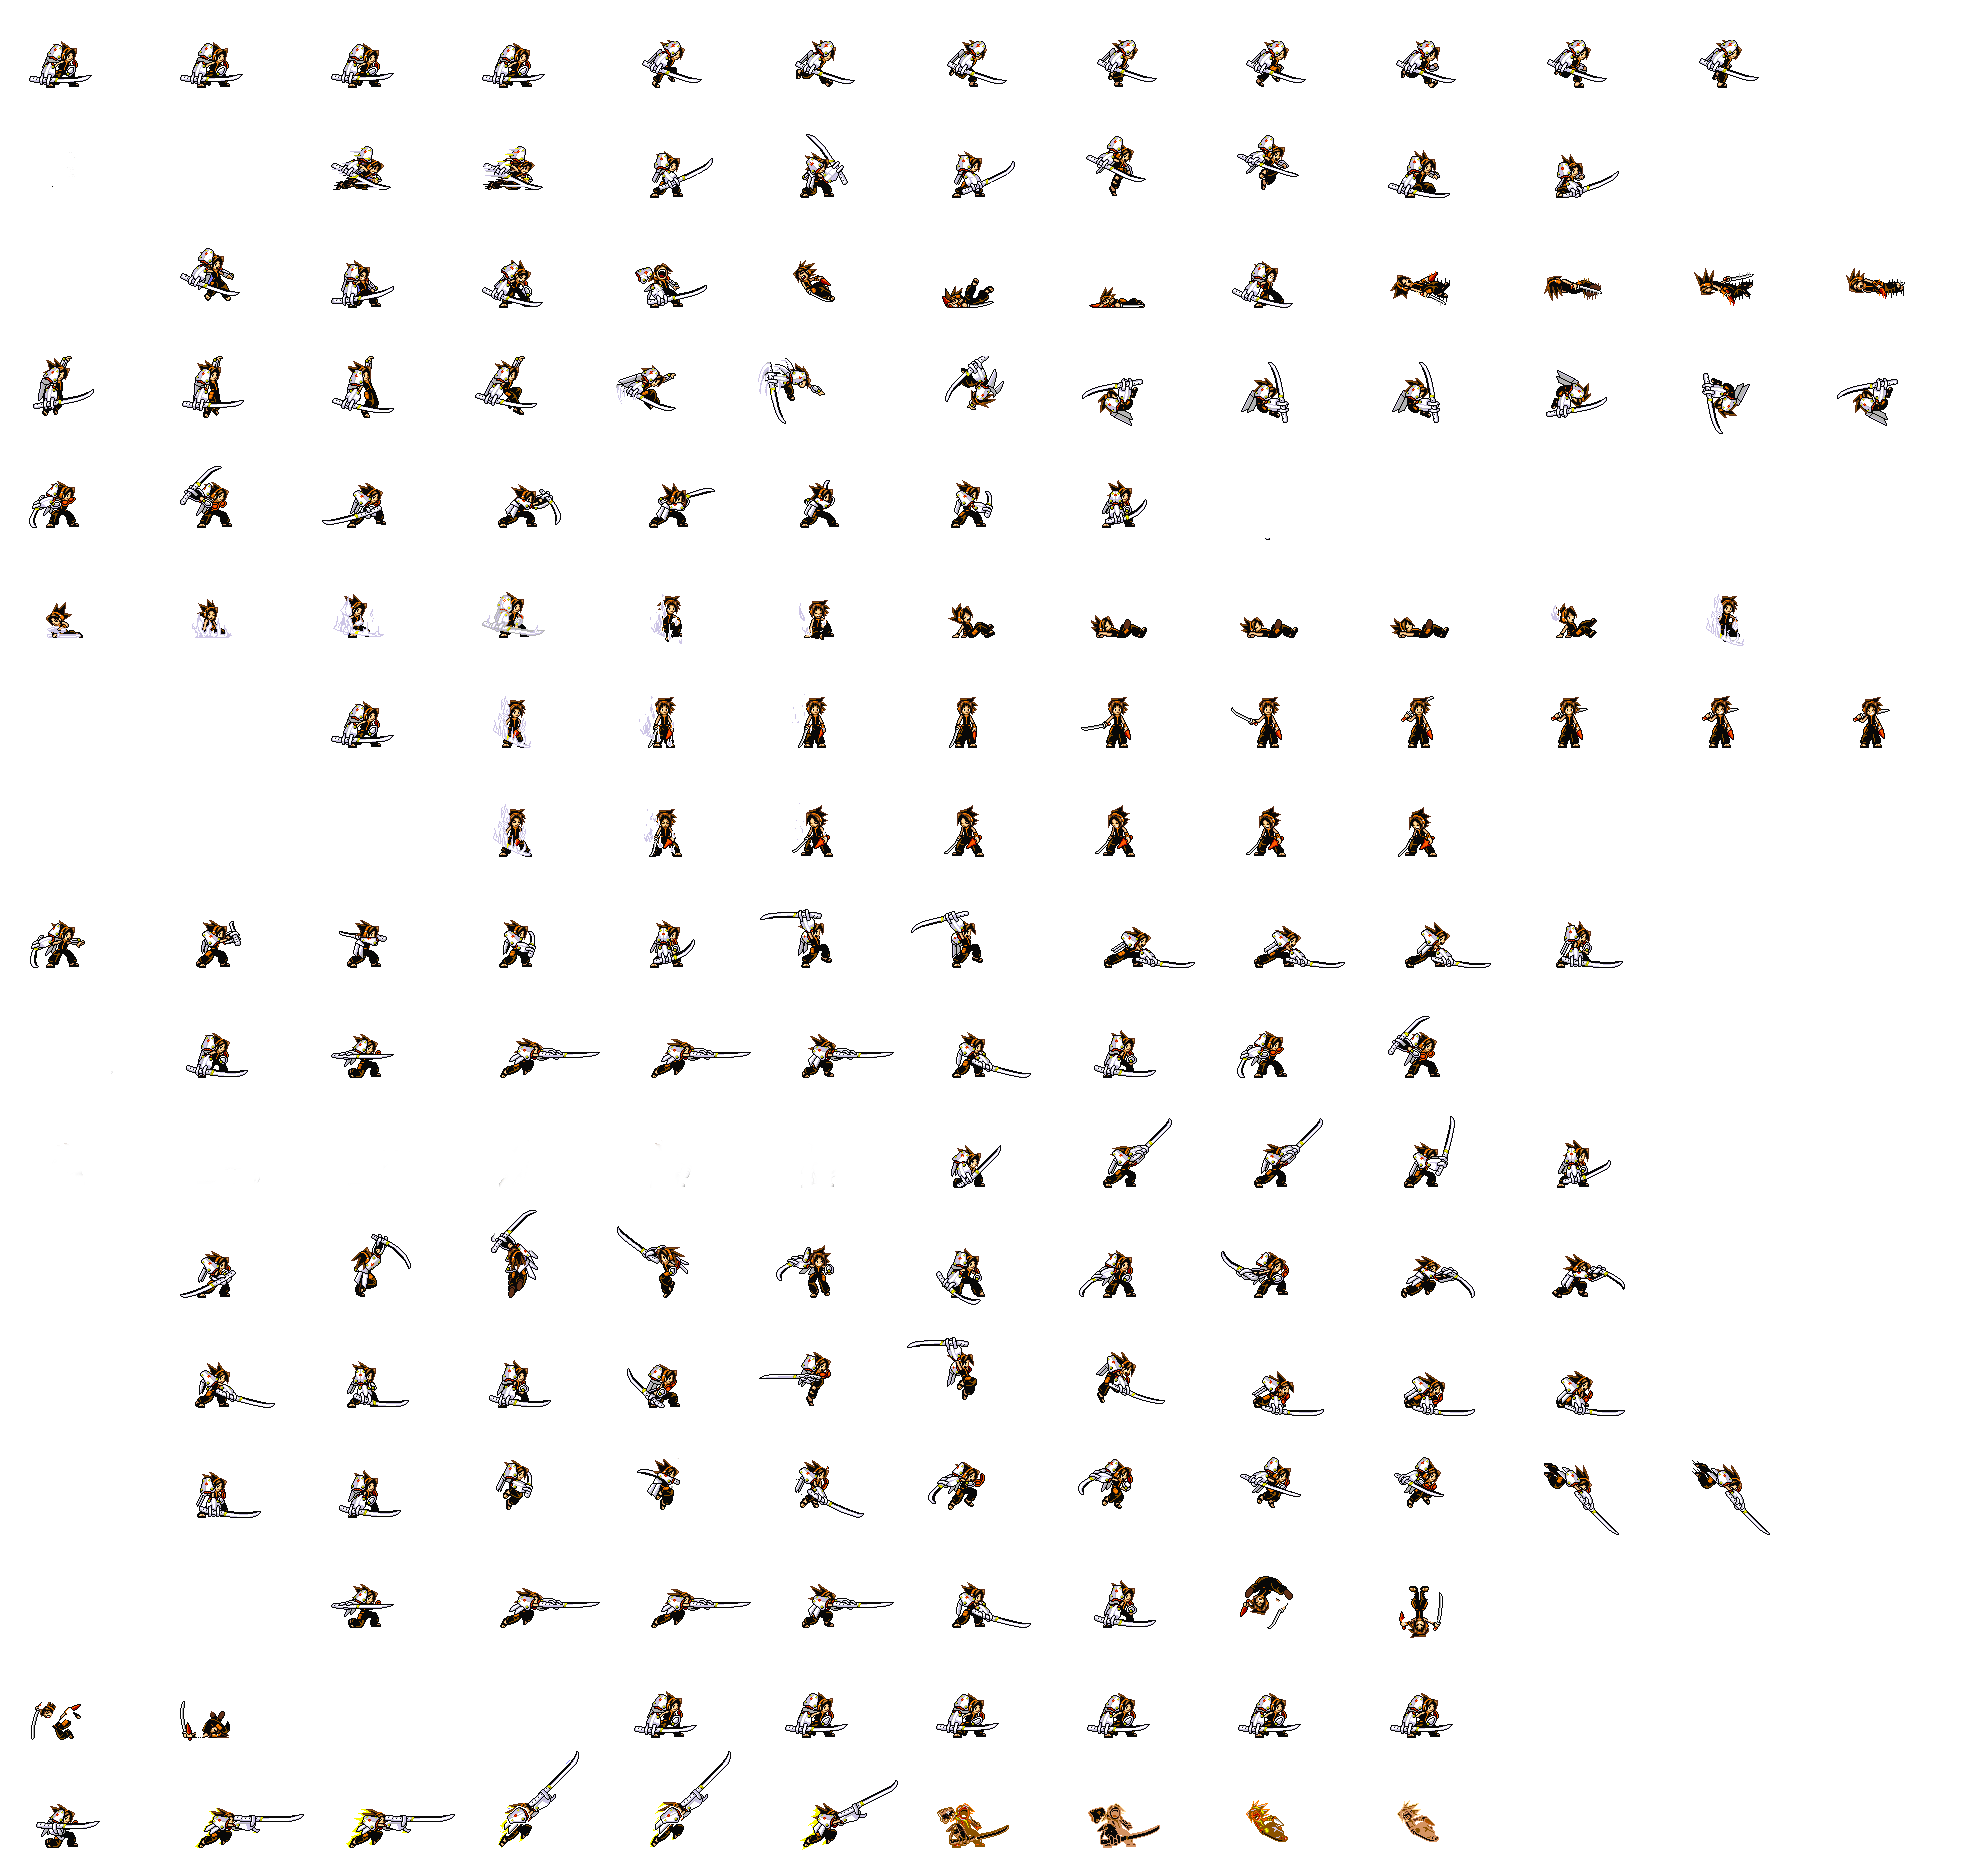
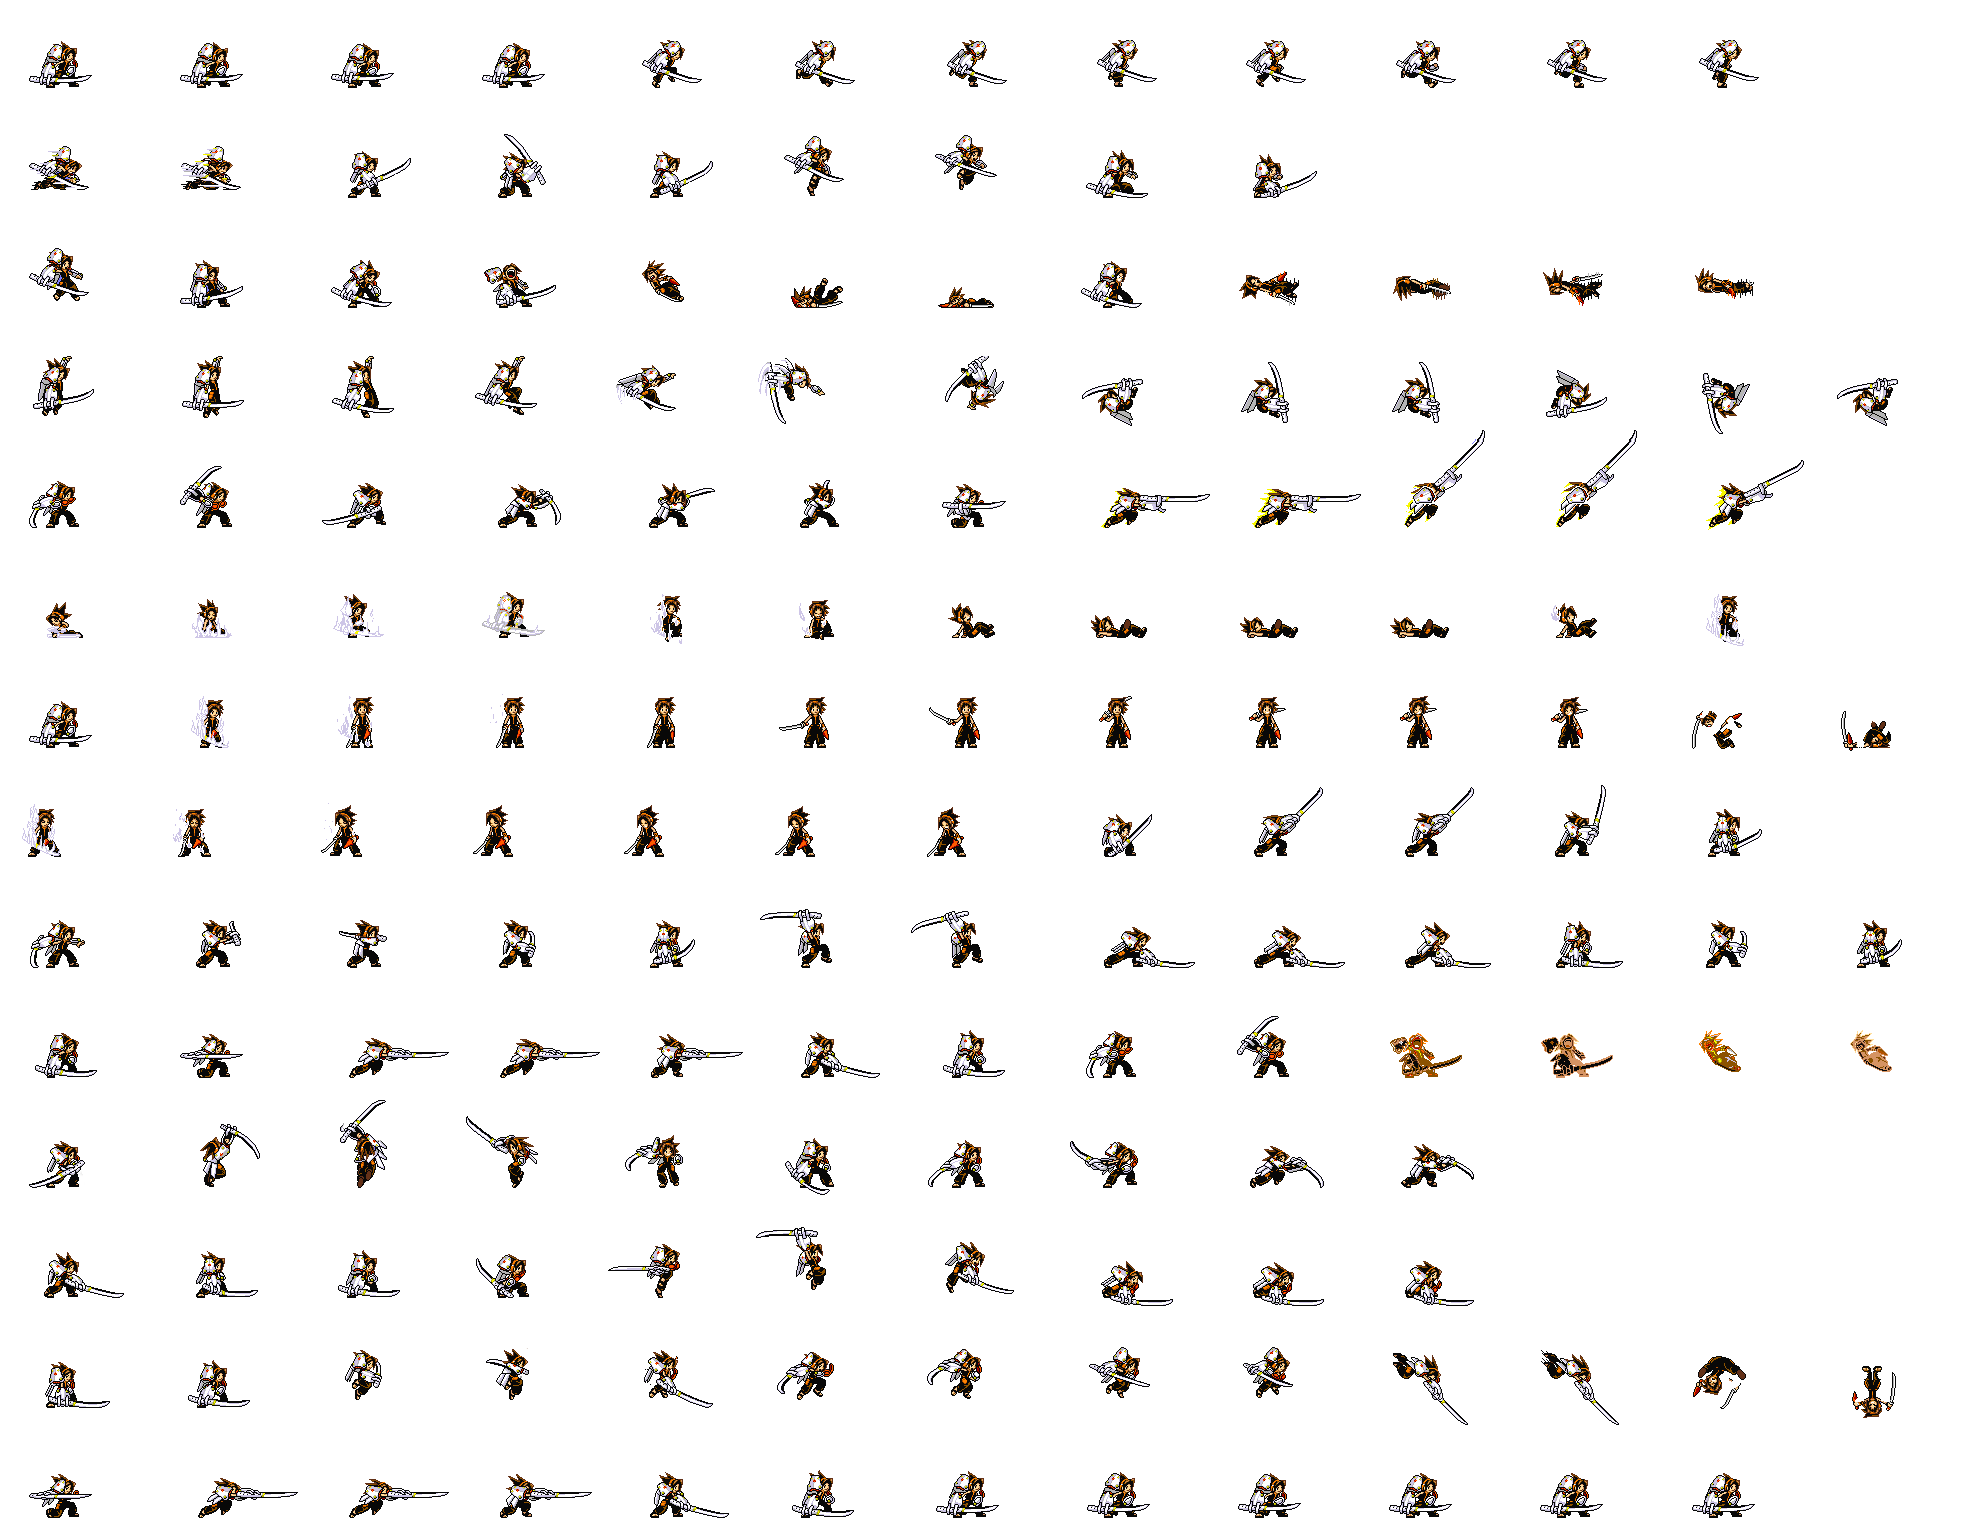
sprite_broillon =>spritePLA
modification sur animation

diff --git a/GameMenu/GameMenu/GameMenu/jeu/sprite_broillon.cs b/GameMenu/GameMenu/GameMenu/jeu/sprite_broillon.cs
@@ -16,7 +16,7 @@ namespace Umea_rana
     {
         Left, Right
     };
-    public class sprite_broillon : objet
+    public class Sprite_PLA : objet
     {
         private class pos
         {
@@ -60,10 +60,8 @@ namespace Umea_rana
         Texture2D test;
 
 
-        public sprite_broillon(Texture2D n_textture, Rectangle n_rectangle, Collision n_collision, ContentManager Content, char type)
+        public Sprite_PLA(Texture2D n_textture, Rectangle n_rectangle, Collision n_collision, ContentManager Content, char type)
         {
-
-
             test = Content.Load<Texture2D>("ListBoxBG");
             texture = n_textture;
             rectangle_C = new Rectangle(n_rectangle.X + 49, n_rectangle.Y + 4, 30, n_rectangle.Height);
@@ -82,7 +80,6 @@ namespace Umea_rana
             this.Timer = 0;
             vie = 100;
 
-
             upsidedown = 10;
             atq = false;
             longattaque = 17;
@@ -93,12 +90,12 @@ namespace Umea_rana
             {
                 colunm = 151;
                 line = 110;
-                largeurX = 22;
-                hauteurY = 40;
-                decallageX = 50;
-                decallageY = 34;
+                largeurX = (int)((30f / (float)colunm) * rectangle.Width);
+                hauteurY = (int)((43f / (float)line) * rectangle.Height);
+                decallageX = (int)((46f / (float)colunm) * rectangle.Width);
+                decallageY = (int)((44f / (float)line) * rectangle.Height);
                 idle = new pos(1, 1, 4);
-                walk = new pos(1, 5, 10);
+                walk = new pos(1, 5, 12);
                 atk = new pos(9, 5, 10);
                 die = new pos(3, 5, 9);
                 jump = new pos(2, 8, 8);
@@ -107,21 +104,22 @@ namespace Umea_rana
             }
             else
             {
-                colunm = 125;
-                line = 93;
-                largeurX = 17;
-                hauteurY = 50;
-                decallageX = 55;
-                decallageY = 31;
-                idle = new pos(1, 1, 3);
-                walk = new pos(2, 1, 3);
-                atk = new pos(8, 1, 3);
-                die = new pos(6, 1, 5);
-                jump = new pos(3, 1, 2);
-                fall = new pos(5, 1, 3);
+                colunm = 114;
+                line = 99;
+                largeurX =(int) ((25f/(float) colunm)*rectangle.Width ) ;
+                hauteurY = (int)((51f / (float)line)*rectangle.Height );
+                decallageX = (int)((17f / (float)colunm)*rectangle.Width );
+                decallageY = (int)((30f / (float)line)*rectangle.Height);
+                idle = new pos(1, 1, 4);
+                walk = new pos(1, 5, 12);
+                atk = new pos(8, 5, 10);
+                die = new pos(3, 3, 7);
+                jump = new pos(2, 4, 5);
+                fall = new pos(2, 6, 7);
             }
             current = fall;
             last = current;
+            test = Content.Load<Texture2D>("ListBoxBG");
         }
 
         public void update(KeyboardState keyboard)
@@ -429,13 +427,13 @@ namespace Umea_rana
 
         public void Draw(SpriteBatch spritebatch)
         {
-        //    spritebatch.Draw(test, rectangle_C, Color.Pink);
-            spritebatch.Draw(texture, rectangle, new Rectangle((this.FrameColumn - 1) * colunm, (this.FrameLine - 1) * line, colunm, line), Color.White  , 0f, new Vector2(0, 0), this.Effects, 0f);
+            spritebatch.Draw(test, rectangle_C, Color.Pink);
+            spritebatch.Draw(texture, rectangle, new Rectangle((this.FrameColumn - 1) * colunm, (this.FrameLine - 1) * line, colunm, line), Color.White, 0f, new Vector2(0, 0), this.Effects, 0f);
         }
         public void Dispose()
         {
             texture.Dispose();
             marchell.Dispose();
         }
-    } 
+    }
 }

diff --git a/GameMenu/GameMenu/GameMenu/moteur_physique/Collision.cs b/GameMenu/GameMenu/GameMenu/moteur_physique/Collision.cs
@@ -21,7 +21,7 @@ namespace Umea_rana
         }
         #region collision avec le sol
         // collision sprite sol fini
-        public bool Collision_sp_sol(ref sprite_broillon sprite, ref Platform_manager platform_m)
+        public bool Collision_sp_sol(ref Sprite_PLA sprite, ref Platform_manager platform_m)
         {
             foreach (platform plato in platform_m.plato)
                 if (sprite.rectangle_C.Bottom >= plato.rectangle_C.Top && sprite.rectangle_C.Right >= plato.rectangle_C.Left &&
@@ -126,7 +126,7 @@ namespace Umea_rana
         }
 
         //collision IA allen action vie--
-        public void coll_AL_IA(IA_Manager_max ia_manage, ref sprite_broillon sprite)
+        public void coll_AL_IA(IA_Manager_max ia_manage, ref Sprite_PLA sprite)
         {
 
             for (int i = 0; i < ia_manage.Ia_manage.Count; ++i)
@@ -179,7 +179,7 @@ namespace Umea_rana
 
 
         // saut non fini
-        public void jump(sprite_broillon sprite)
+        public void jump(Sprite_PLA sprite)
         {
             int i = 10;
             if (sprite.rectangle.Y >= sprite.pos_marche - sprite.impulse)
@@ -437,7 +437,7 @@ namespace Umea_rana
             }
         }
 
-        public void Bossplat_hero(ref bossPLAT boss, ref sprite_broillon sprite,ref Platform_manager platform)
+        public void Bossplat_hero(ref bossPLAT boss, ref Sprite_PLA sprite,ref Platform_manager platform)
         {
 
             foreach (Rectangle rec in boss.ptfort)

diff --git a/GameMenu/GameMenu/GameMenu/jeu/level2.cs b/GameMenu/GameMenu/GameMenu/jeu/level2.cs
@@ -18,7 +18,7 @@ namespace Umea_rana
     {
 
         Scrolling_H scrolling1;//, scrolling3, scrolling4;
-        sprite_broillon allen;
+        Sprite_PLA allen;
         Platform_manager platform_M;
         IA_manager_AA managerAA;
         IA_manager_AR managerAR;
@@ -56,7 +56,7 @@ namespace Umea_rana
             //background
             backgroundT = Content.Load<Texture2D>("level1/fond_niv1");
             //sprite brouillon
-            alllenT = Content.Load<Texture2D>("hero//fiches_sprite_allen");
+            alllenT = Content.Load<Texture2D>("hero/allen1");
             //platfom
             platform_t = Content.Load<Texture2D>("level1//platform");
             //ia
@@ -71,7 +71,7 @@ namespace Umea_rana
             //background
             scrolling1 = new Scrolling_H(backgroundT, new Rectangle(0, 0, width, height), back_sc);
             //sprite brouillon
-            allen = new sprite_broillon(alllenT, new Rectangle(width / 2, 0, 125, 93), collision, Content, '1');
+            allen = new Sprite_PLA(alllenT, new Rectangle(width / 2, 0, 125, 93), collision, Content, '1');
             //instanciement du manager d ia
             platform_M = new Platform_manager(platform_t, width * 0.1f, height * 0.1f, front_sc, height, width);
             //intenciement des 3 ia

diff --git a/GameMenu/GameMenu/GameMenu/jeu/level3.cs b/GameMenu/GameMenu/GameMenu/jeu/level3.cs
@@ -18,7 +18,7 @@ namespace Umea_rana
     {
 
         Scrolling_H scrolling1;//, scrolling3, scrolling4;
-        sprite_broillon allen;
+        Sprite_PLA allen;
         Platform_manager platform_M;
         IA_manager_AA managerAA;
         IA_manager_AR managerAR;
@@ -71,7 +71,7 @@ namespace Umea_rana
             //background
             scrolling1 = new Scrolling_H(backgroundT, new Rectangle(0, 0, width, height), back_sc);
             //sprite brouillon
-            allen = new sprite_broillon(alllenT, new Rectangle(width / 2, 0, 125, 93), collision, Content, '2');
+            allen = new Sprite_PLA(alllenT, new Rectangle(width / 2, 0, 125, 93), collision, Content, '2');
             //instanciement du manager d ia
             platform_M = new Platform_manager(platform_t, width * 0.1f, height * 0.1f, front_sc, height, width);
             //intenciement des 3 ia

diff --git a/GameMenu/GameMenu/GameMenu/moteur_jeu/Listbox.cs b/GameMenu/GameMenu/GameMenu/moteur_jeu/Listbox.cs
@@ -62,7 +62,7 @@ namespace Umea_rana
         {
             this.font = Content.Load<SpriteFont>("FontList");
             this.fondT = Content.Load<Texture2D>("ListBoxBG");
-            this.fleche = Content.Load<Texture2D>("fleche")
+            this.fleche = Content.Load<Texture2D>("fleche");
         }
 
         public void Update(ref KeyboardState keyboard, ref KeyboardState old, ref MouseState mouse, ref Rectangle mouse_rec, ref int tab)

diff --git a/GameMenu/GameMenu/GameMenu/interface/GameState.cs b/GameMenu/GameMenu/GameMenu/interface/GameState.cs
@@ -34,7 +34,7 @@ namespace Umea_rana
 
         }
 
-        protected void fail(Game1 game, sprite_broillon sprite, Game1.gameState _currentState)
+        protected void fail(Game1 game, Sprite_PLA sprite, Game1.gameState _currentState)
         {
             if (sprite.rectangle.Bottom > 2 * height||sprite.dead )
                 game.ChangeState(Game1.gameState.Pause, _currentState);

diff --git a/GameMenu/GameMenu/GameMenu/jeu/Housse.cs b/GameMenu/GameMenu/GameMenu/jeu/Housse.cs
@@ -31,7 +31,7 @@ namespace Umea_rana
             column = 100;
             Effects = SpriteEffects.FlipHorizontally;
         }
-        public void Update(KeyboardState keybord, Game1 game, sprite_broillon sprite)
+        public void Update(KeyboardState keybord, Game1 game, Sprite_PLA sprite)
         {
             if (keybord.IsKeyDown(Keys.Right))
             {

diff --git a/GameMenu/GameMenu/GameMenu/jeu/Score_PLA.cs b/GameMenu/GameMenu/GameMenu/jeu/Score_PLA.cs
@@ -22,7 +22,7 @@ namespace Umea_rana
             texture = content.Load<Texture2D>("ListBoxBG");
             viemax = 300;
         }
-        public void Update(ref sprite_broillon sprite)
+        public void Update(ref Sprite_PLA sprite)
         {
             vie = sprite.vie;
             fond2.Width = (int)((float)vie / (float)viemax * (float)maxwidth);
